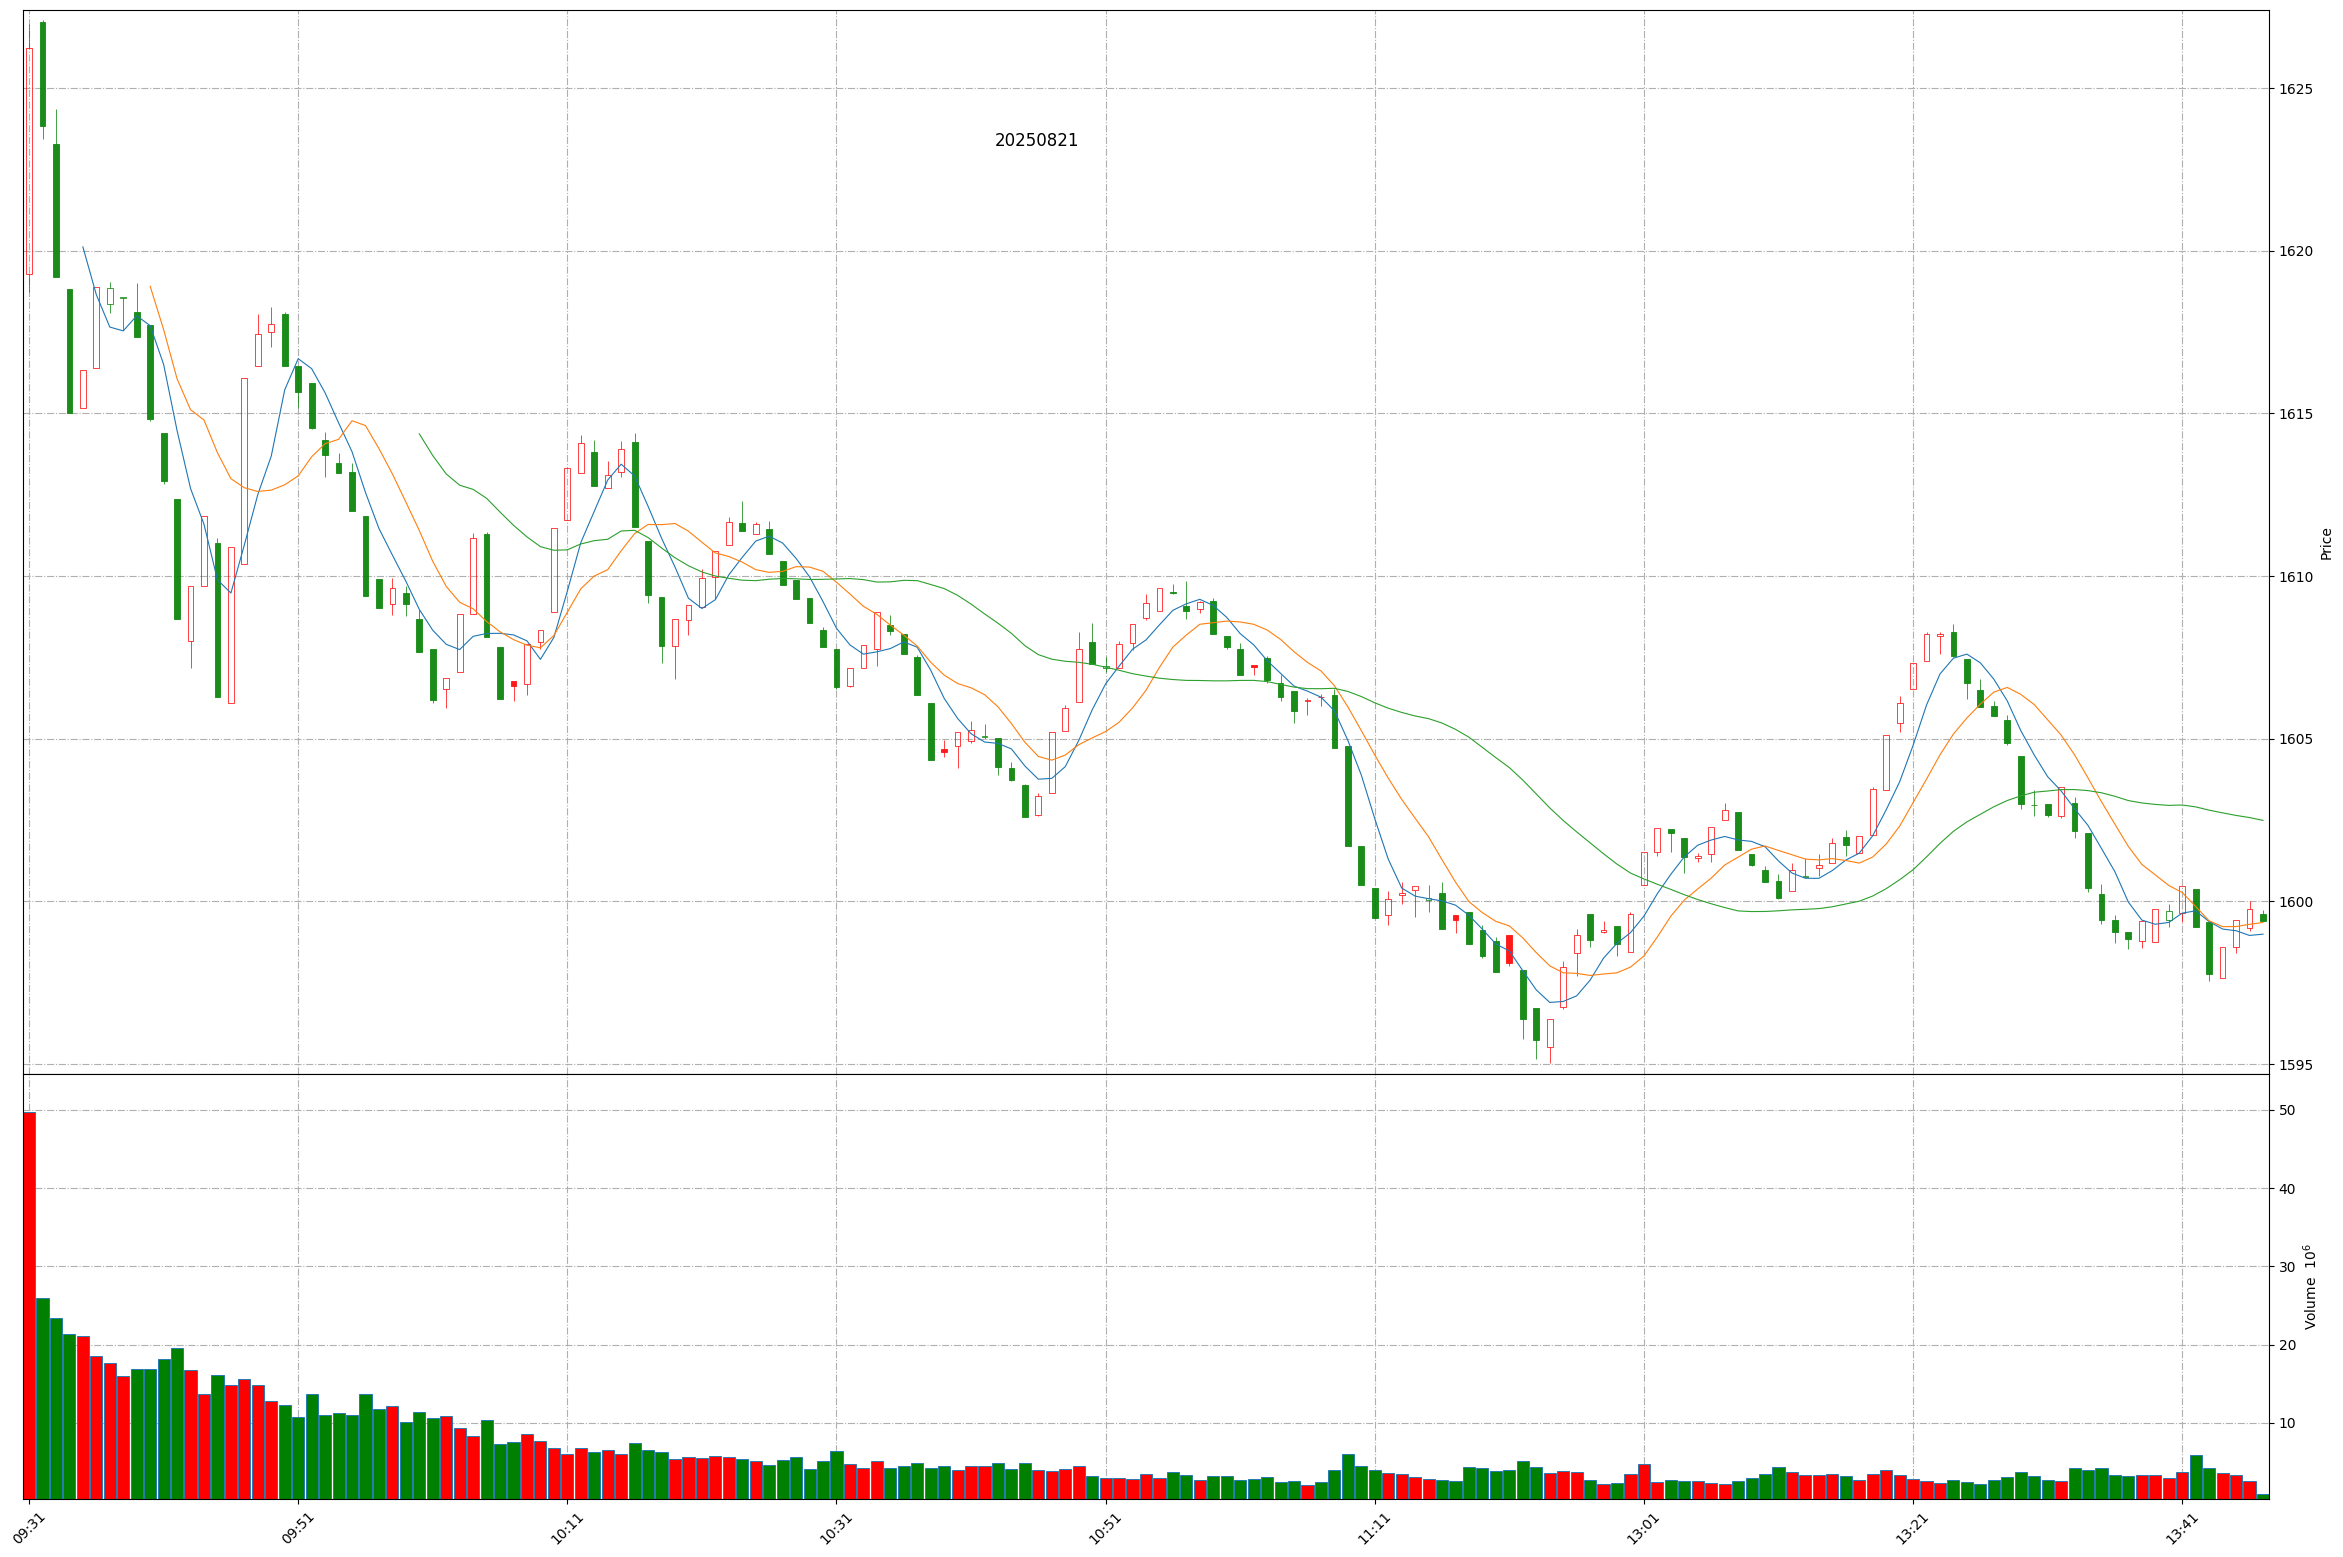
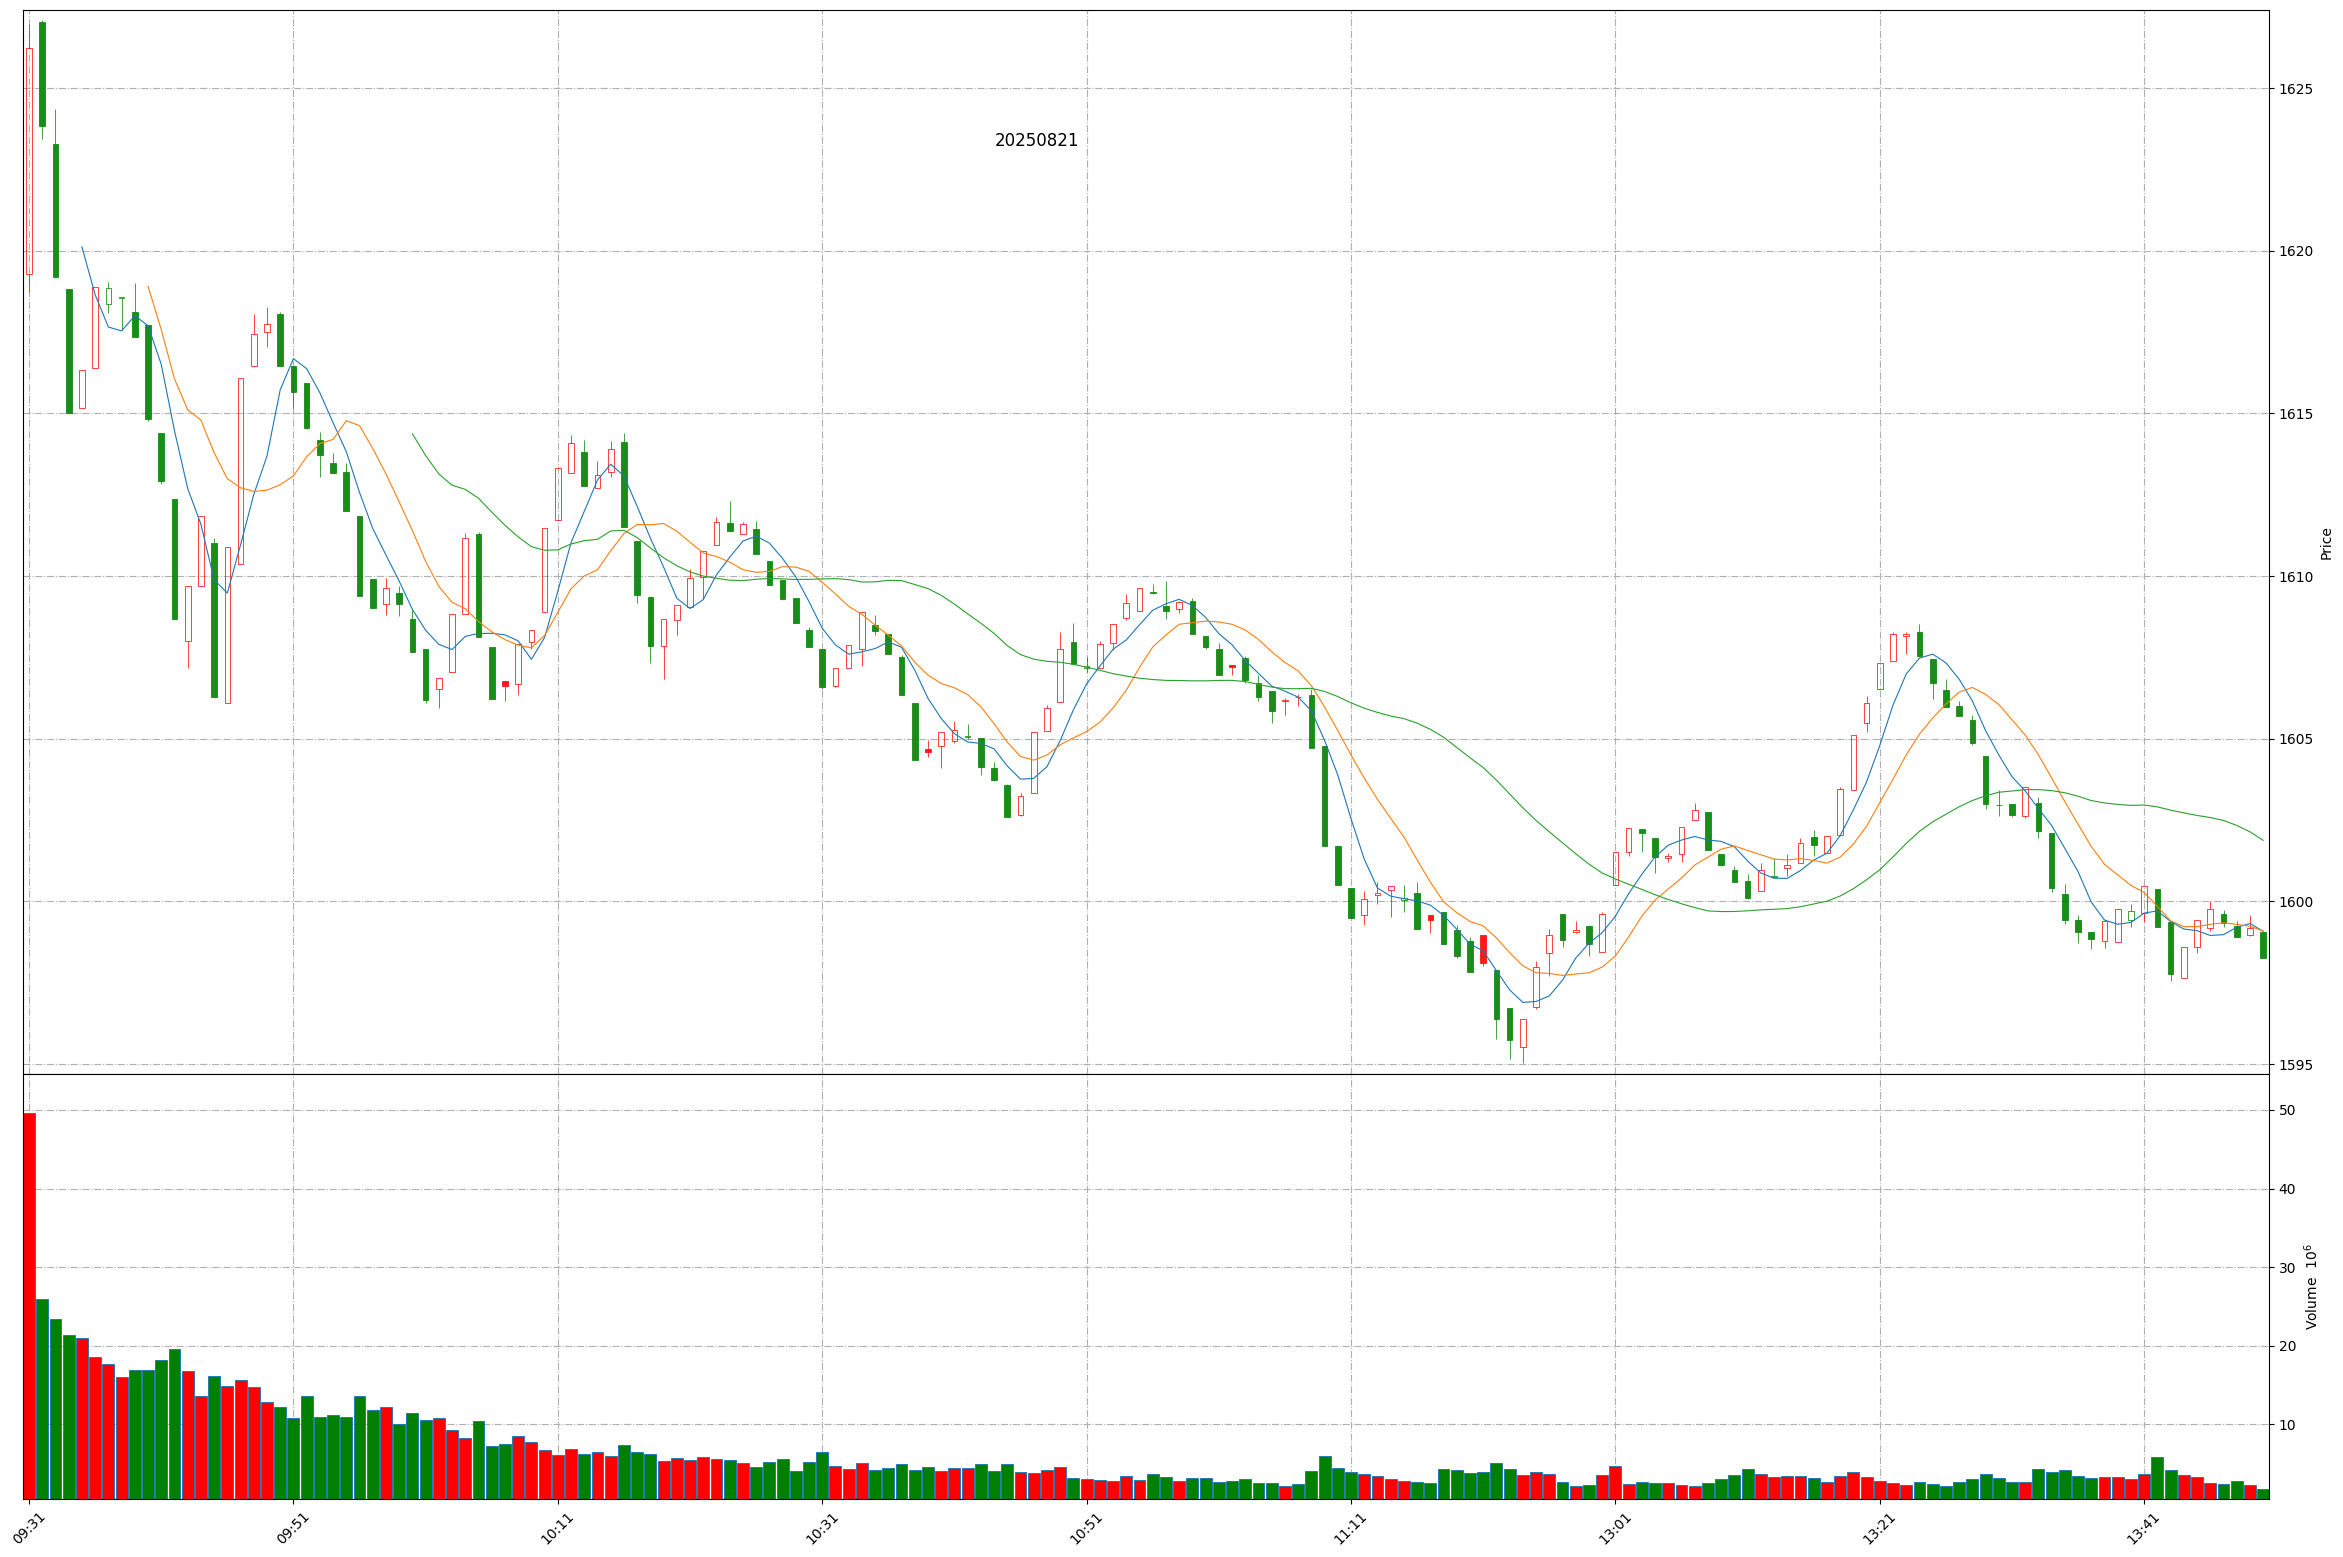
Github action update at 2025-08-21 13:50:08.

diff --git a/README.md b/README.md
@@ -1,11 +1,11 @@
 
 # Daily-A-share-market-quotes 每日 A 股指数（5min 更新）- 20250821
 
-### 上证指数 20250821 13:46
+### 上证指数 20250821 13:50
 ![](./fig/2025/8/20250821-sh000001.png)
 
-### 深证成指 20250821 13:46
+### 深证成指 20250821 13:50
 ![](./fig/2025/8/20250821-sz399001.png)
 
-### 北证50 20250821 13:46
+### 北证50 20250821 13:50
 ![](./fig/2025/8/20250821-bj899050.png)
